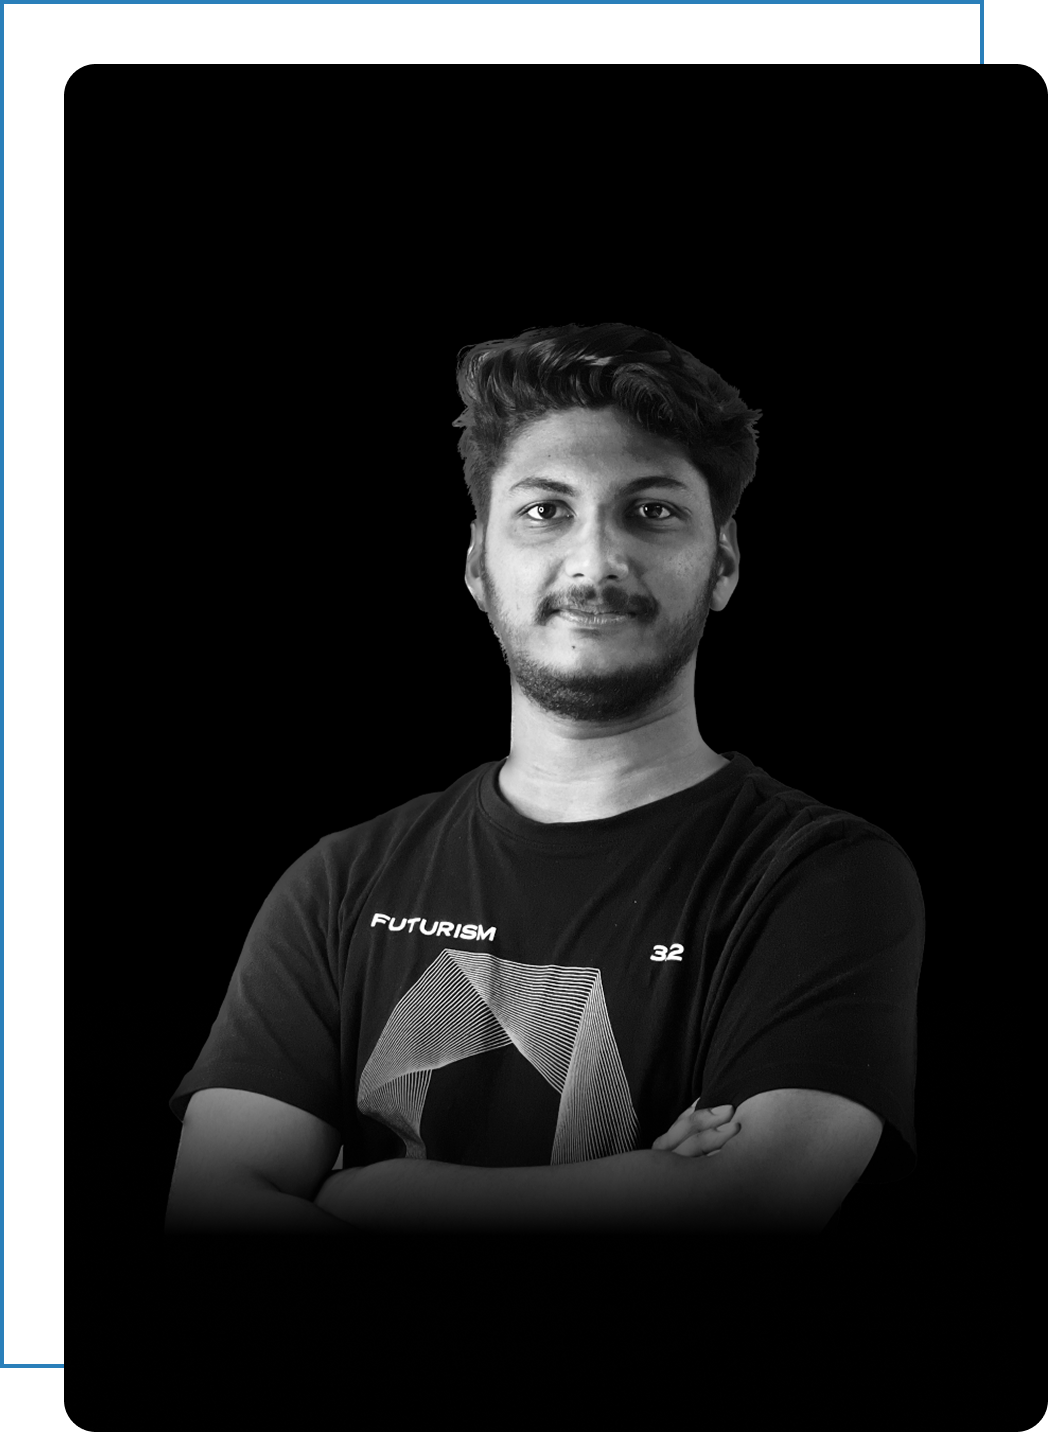
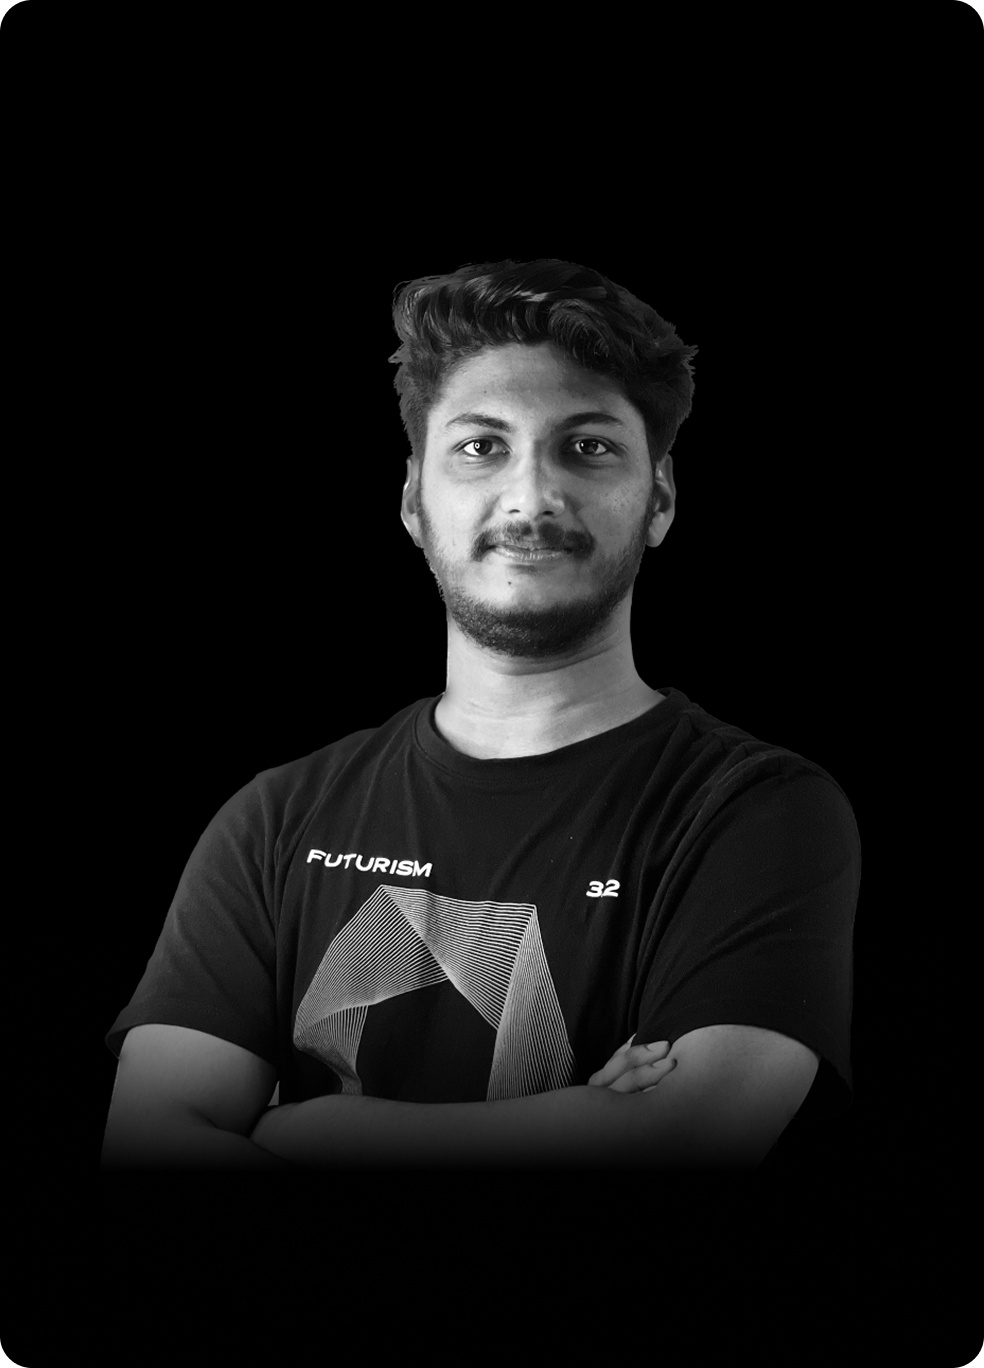
ui updates

diff --git a/src/features/contact/components/ContactBody.tsx b/src/features/contact/components/ContactBody.tsx
@@ -4,6 +4,7 @@ import facebook from "@/assets/icons/Facebook.png";
 import instagram from "@/assets/icons/Instagram.png";
 import linkedin from "@/assets/icons/Linkedin.png";
 import twitter from "@/assets/icons/Twitter.png";
+import github from "@/assets/icons/github.png";
 import Image from "next/image";
 import { useState } from "react";
 import { toast, ToastContainer } from "react-toastify";
@@ -51,30 +52,44 @@ function ContactBody() {
           For any service and work you can contact with me by send an email or
           by our social media accounts.
         </p>
-        <div className="flex flex-row gap-4 ">
+        <div className="flex flex-row gap-4">
+        <a
+            href="https://github.com/sayedali-2129"
+            target="_blank"
+            rel="noopener noreferrer"
+          >
+            <span className="inline-flex items-center justify-center md:h-10 md:w-10 h-9 w-9 cursor-pointer">
+              <Image
+                src={github}
+                alt="github"
+                className="md:h-7 md:w-7 h-6 w-6 object-contain"
+              />
+            </span>
+          </a>
           <a
             href="https://www.linkedin.com/in/sayed-ali-mh"
             target="_blank"
             rel="noopener noreferrer"
           >
-            <span className="text-TextBlue text-5xl cursor-pointer">
+            <span className="inline-flex items-center justify-center md:h-10 md:w-10 h-9 w-9 cursor-pointer">
               <Image
                 src={linkedin}
                 alt="linkedin"
-                className="md:h-8 md:w-8 h-6 w-6"
+                className="md:h-8 md:w-8 h-7 w-7 object-contain"
               />
             </span>
           </a>
+         
           <a
             href="https://www.instagram.com/_sayed.ali___?igsh=MXN4dXhtZmJ5ang0Nw=="
             target="_blank"
             rel="noopener noreferrer"
           >
-            <span className="text-TextBlue text-5xl cursor-pointer">
+            <span className="inline-flex items-center justify-center md:h-10 md:w-10 h-9 w-9 cursor-pointer">
               <Image
                 src={instagram}
                 alt="instagram"
-                className="md:h-8 md:w-8 h-6 w-6"
+                className="md:h-9 md:w-9 h-7 w-7 object-contain"
               />
             </span>
           </a>
@@ -83,25 +98,25 @@ function ContactBody() {
             target="_blank"
             rel="noopener noreferrer"
           >
-            <span className="text-TextBlue text-5xl cursor-pointer">
+            <span className="inline-flex items-center justify-center md:h-10 md:w-10 h-9 w-9 cursor-pointer">
               <Image
                 src={facebook}
                 alt="facebook"
-                className="md:h-8 md:w-8 h-6 w-6"
+                className="md:h-10 md:w-10 h-9 w-9 object-contain"
               />
             </span>
           </a>
 
           <a
-            href=" https://x.com/sayedpld?t=IDqNHq5sS5bcq8l2TbZfow&s=08 "
+            href="https://x.com/sayedpld?t=IDqNHq5sS5bcq8l2TbZfow&s=08"
             target="_blank"
             rel="noopener noreferrer"
           >
-            <span className="text-TextBlue text-5xl cursor-pointer">
+            <span className="inline-flex items-center justify-center md:h-10 md:w-10 h-9 w-9 cursor-pointer">
               <Image
                 src={twitter}
                 alt="twitter"
-                className="md:h-8 md:w-8 h-6 w-6"
+                className="md:h-7 md:w-7 h-6 w-6 object-contain"
               />
             </span>
           </a>

diff --git a/src/features/about/components/AboutBody.tsx b/src/features/about/components/AboutBody.tsx
@@ -24,20 +24,22 @@ export default function AboutBody() {
         viewport={{ once: true, amount: 0.4 }}
         transition={{ duration: 0.6 }}
       >
-        <Image
-          src={SayedAli}
-          className="md:w-[232px] w-[200px] md:h-[318px] h-[270px] rounded-xl shadow-[0_0_40px_-12px_rgba(34,211,238,0.35)]"
-          alt="Sayed Ali Flutter Developer image"
-        />
-        <div className="mt-6 w-40 h-10  px-[10px] py-[10px] border border-TextBlue relative rounded-md">
-          <a
-            href="https://drive.google.com/file/d/1e-ztRNtqxvGzUoTeu91yDBpbsFzEnL7z/view"
-            download="Sayed Ali MH CV.pdf"
-            className="absolute w-40 border border-TextBlue bg-transparent hover:bg-white/5 transition-colors flex items-center cursor-pointer justify-center px-5 py-3 text-[14px] text-TextBlue tracking-wide font-PoppinsMedium rounded-md"
-          >
-            View Resume
-          </a>
+        <div className="md:w-[232px] w-[200px] md:h-[318px] h-[270px] rounded-xl p-[2px] bg-TextBlue/70 shadow-[0_0_22px_rgba(34,211,238,0.45),0_0_50px_rgba(34,211,238,0.22)]">
+          <div className="w-full h-full rounded-[10px] overflow-hidden bg-black">
+            <Image
+              src={SayedAli}
+              className="w-full h-full object-cover"
+              alt="Sayed Ali Flutter Developer image"
+            />
+          </div>
         </div>
+        <a
+          href="https://drive.google.com/file/d/1RZEtvXqp5InLEl7slGU7ve9E9FTDZwtA/view"
+          download="Sayed Ali MH CV.pdf"
+          className="mt-6 inline-flex h-10 w-40 items-center justify-center rounded-md border border-TextBlue/60 bg-white/5 px-5 text-[14px] font-PoppinsMedium tracking-wide text-TextBlue shadow-[0_0_0_1px_rgba(34,211,238,0.12),0_0_16px_rgba(34,211,238,0.12)] transition-all hover:bg-TextBlue/10 hover:shadow-[0_0_0_1px_rgba(34,211,238,0.18),0_0_22px_rgba(34,211,238,0.22)] focus:outline-none focus-visible:ring-2 focus-visible:ring-TextBlue/60"
+        >
+          View CV
+        </a>
 
         <h3 className="mt-12 font-PoppinsSemiBold tracking-wide text-xl">
           Tools

diff --git a/src/features/about/components/Experience.tsx b/src/features/about/components/Experience.tsx
@@ -5,14 +5,14 @@ import { motion } from "framer-motion";
 export default function Experience() {
   return (
     <motion.div
-      className="pb-20 xl:px-52 md:px-20 sm:px-12 px-2 flex flex-wrap items-start justify-start gap-8"
+      className="pb-20 xl:px-52 md:px-20 sm:px-12 px-2 flex flex-wrap items-start justify-center md:justify-start gap-8"
       initial={{ opacity: 0, y: 10 }}
       whileInView={{ opacity: 1, y: 0 }}
       viewport={{ once: true, amount: 0.3 }}
       transition={{ duration: 0.5, ease: "easeOut" }}
     >
-      <div className="md:w-[330px] flex flex-col items-center justify-center">
-        <h3 className="mb-4 font-PoppinsSemiBold tracking-wide text-[24px] text-TextColor">
+      <div className="w-full mx-auto md:mx-0 md:w-[330px] flex flex-col items-center justify-center">
+        <h3 className="mb-4 text-center font-PoppinsSemiBold tracking-wide text-[24px] text-TextColor">
           Experience
         </h3>
         <p className="sm:mt-0 mt-4 sm:px-0 px-4 font-PoppinsRegular tracking-[2px] text-[13px] text-center text-TextColor text-opacity-50 leading-6">
